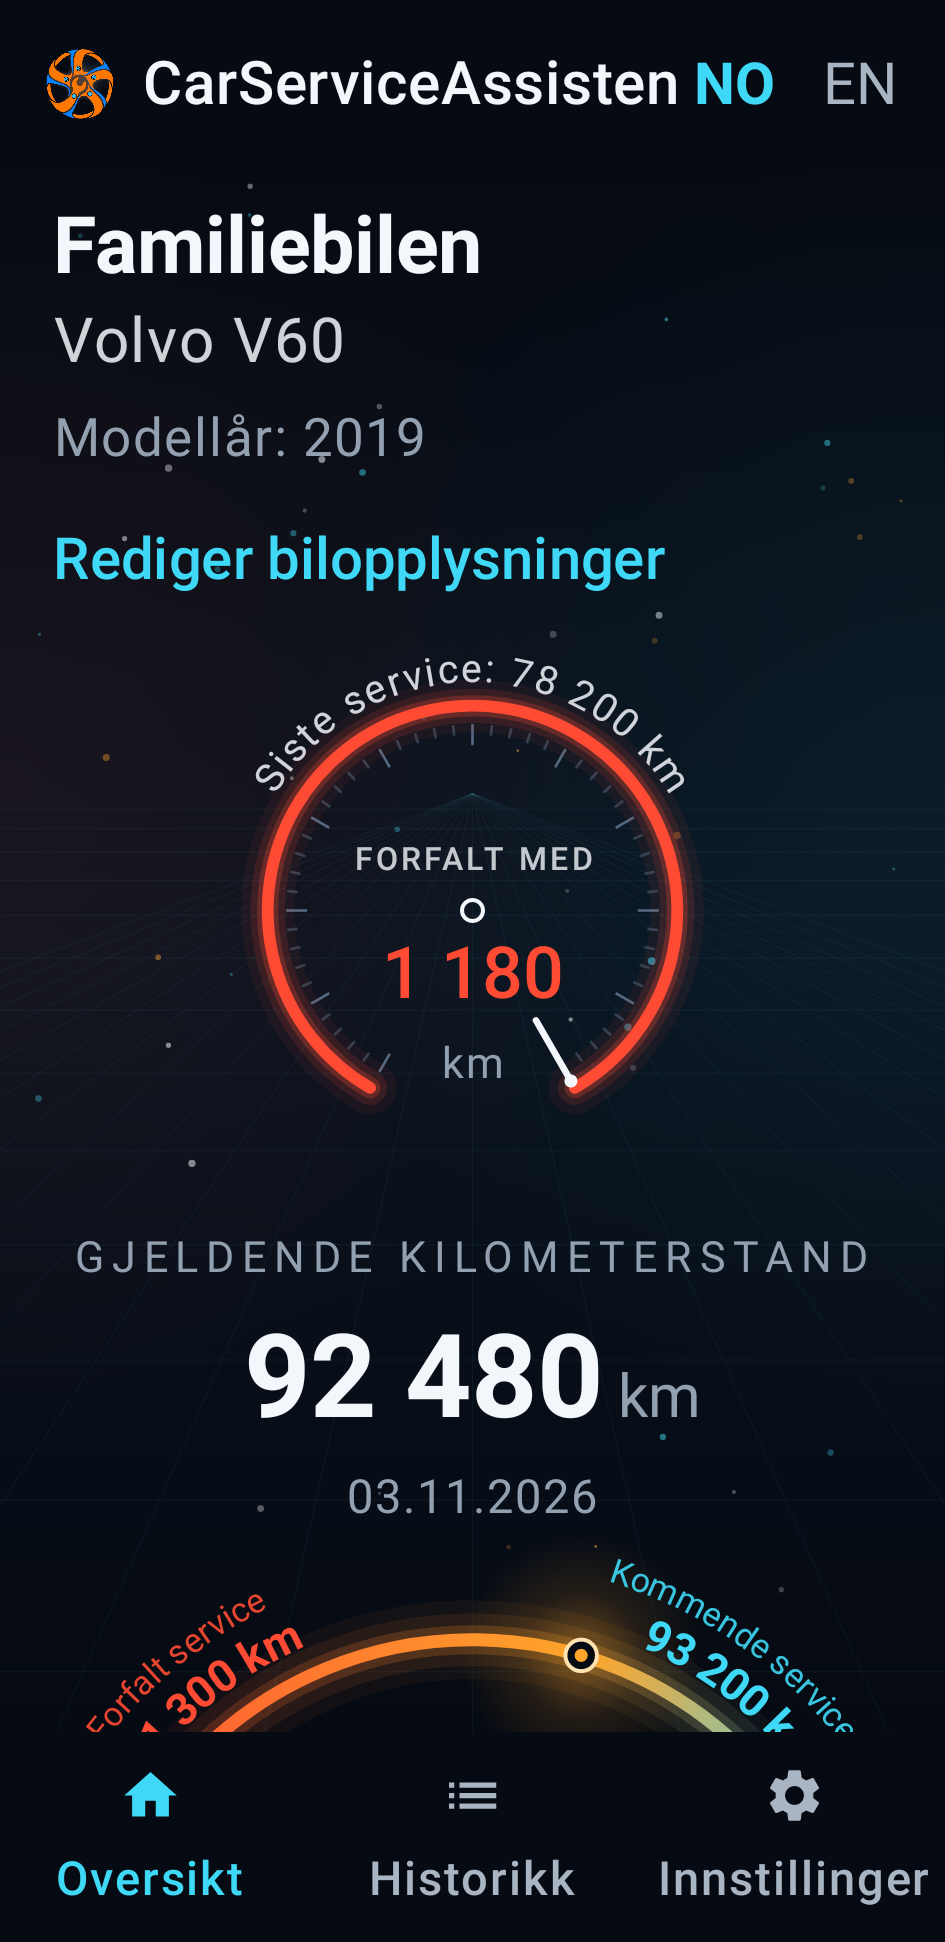
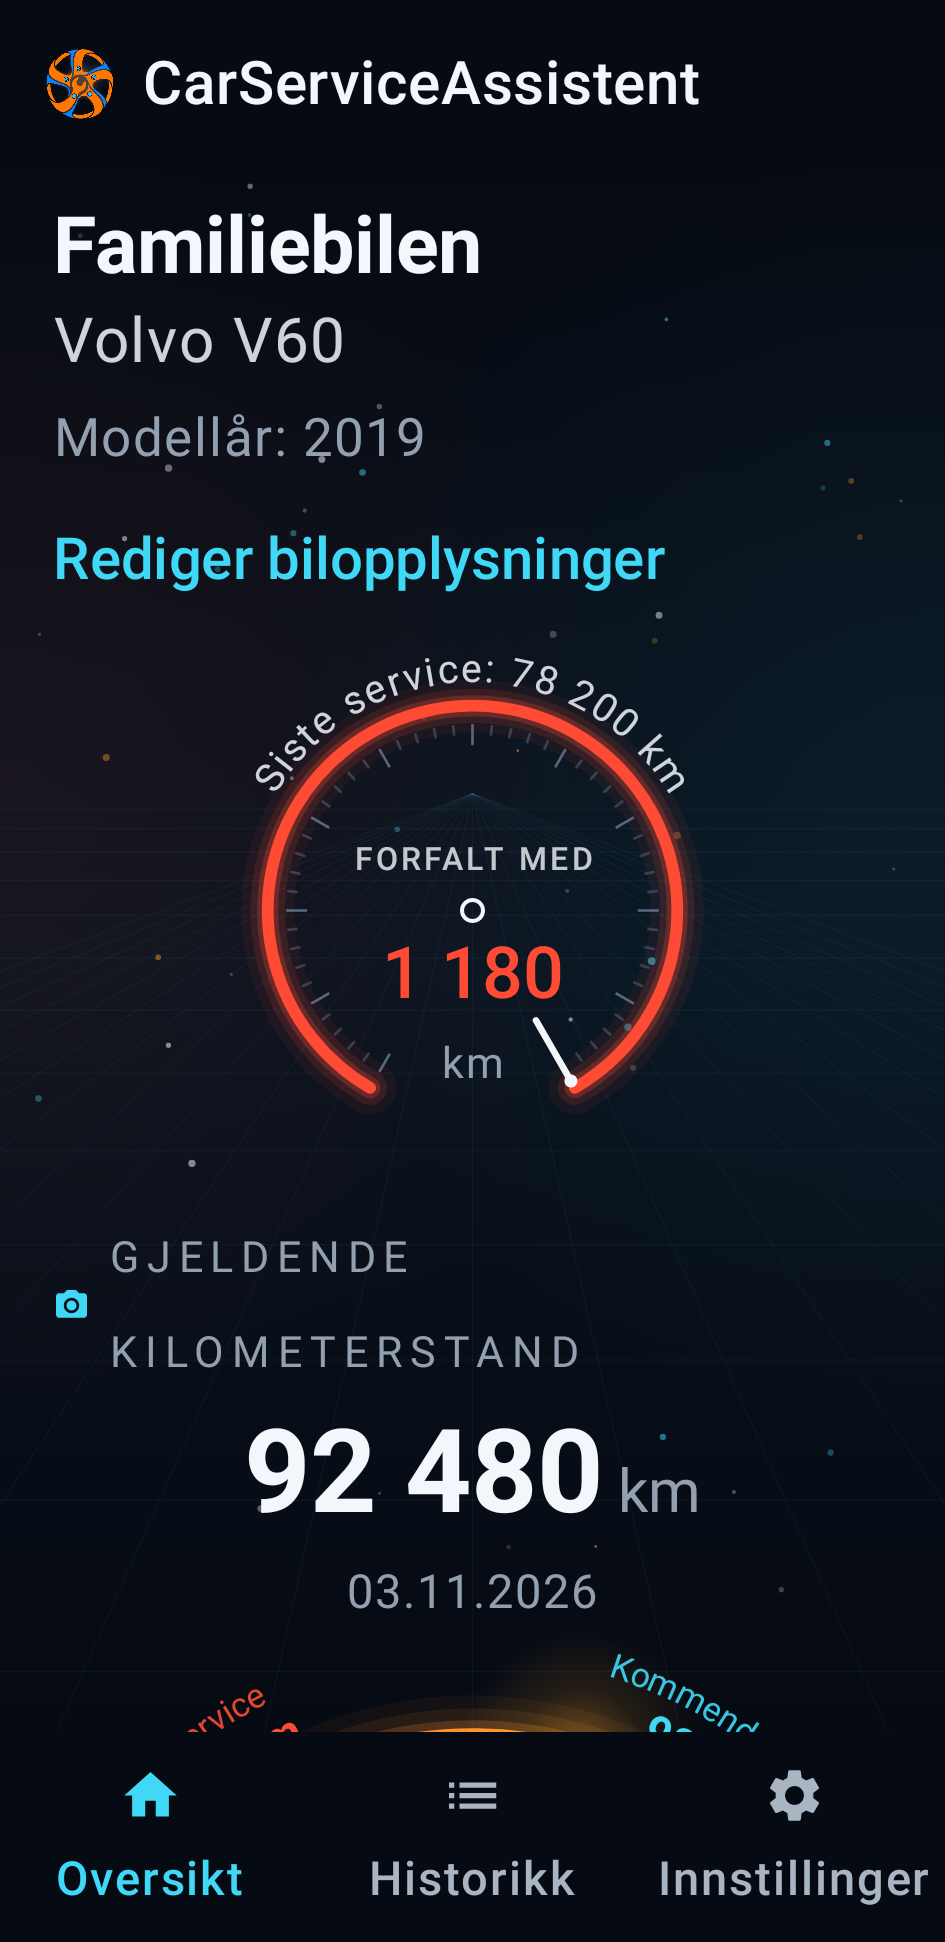
feat: the camera is one tap from the first screen
Nothing on the first screen led to the camera; the button was only inside the mileage form. Now:
- the top right corner of the main screens has a camera symbol instead of the NO / EN switch;
- the mileage on the first screen (its label, the number, its date, or the invitation to add a reading) opens the camera too, and carries a small camera mark;
- both open the mileage form straight into the camera, once; the number read from the photo waits there for the driver to save it. Leaving the camera without a photo lands on the form, where the number can be typed.

The language is chosen in the settings, as before the switch existed. A phone in neither Norwegian nor English still starts in Norwegian.

Version 0.12.1.

Claude-Session: https://claude.ai/code/session_01HjoZJ8yKa7bY5hk5TaW4g1

diff --git a/app/src/main/java/app/servicepassport/android/ui/CarServiceApp.kt b/app/src/main/java/app/servicepassport/android/ui/CarServiceApp.kt
@@ -86,7 +86,12 @@ fun CarServiceApp(repository: ProfileRepository, reminderStore: ReminderStore? =
                 }
             }, navigationIcon = {
                 if (route !in tabs) IconButton(onClick = { back() }, modifier = Modifier.testTag("back")) { Icon(Icons.AutoMirrored.Default.ArrowBack, contentDescription = stringResource(R.string.back)) }
-            }, actions = { if (route in tabs) LanguageSwitch() }) },
+            }, actions = {
+                // One tap from any main screen to a photo of the odometer. Without a car there is nothing to add it to.
+                if (route in tabs && state.snapshot != null && documents != null && documentStore != null) IconButton(onClick = { go("reading/photo") }, modifier = Modifier.testTag("scan_odometer")) {
+                    Icon(painterResource(R.drawable.ic_camera), contentDescription = stringResource(R.string.odometer_photo), tint = MaterialTheme.colorScheme.primary)
+                }
+            }) },
             bottomBar = { NavigationBar(containerColor = MaterialTheme.colorScheme.background) {
                 listOf(Triple("overview", R.string.overview, Icons.Default.Home), Triple("history", R.string.history, Icons.AutoMirrored.Default.List), Triple("settings", R.string.settings, Icons.Default.Settings)).forEach { (target, label, icon) ->
                     NavigationBarItem(modifier = Modifier.testTag("nav_$target"), selected = route == target, icon = { Icon(icon, contentDescription = null) }, label = { Text(stringResource(label)) }, onClick = { go(target) },
@@ -123,6 +128,8 @@ fun CarServiceApp(repository: ProfileRepository, reminderStore: ReminderStore? =
                 composable("service/{id}") { node -> ServiceDetails(state, node.arguments?.getString("id").orEmpty(), ::go, documentStore, { id -> model.removeDocument(id) {} }) { id, revision -> model.deleteService(id, revision) { saved("history") } } }
                 composable("readings") { Readings(state, ::go, model::selectReading) { id, revision -> model.deleteReading(id, revision) {} } }
                 composable("reading/new") { ReadingEditor(state, null, model.today, { dirty = it }, documents, documentStore) { input -> model.saveReading(input) { saved("overview") } } }
+                // The same form, opened straight into the camera.
+                composable("reading/photo") { ReadingEditor(state, null, model.today, { dirty = it }, documents, documentStore, startWithPhoto = true) { input -> model.saveReading(input) { saved("overview") } } }
                 composable("reading/{id}") { node ->
                     val reading = state.snapshot?.readings?.firstOrNull { it.id == node.arguments?.getString("id") && it.eventId == null }
                     if (reading == null) Page { Text(stringResource(R.string.entry_not_found)) } else ReadingEditor(state, reading, model.today, { dirty = it }) { input -> model.saveReading(input) { saved("readings") } }
@@ -134,22 +141,6 @@ fun CarServiceApp(repository: ProfileRepository, reminderStore: ReminderStore? =
             pendingRoute = null; pendingBack = false; dirty = false
             if (wasBack) nav.popBackStack() else if (destination != null) navigate(destination)
         }, modifier = Modifier.testTag("confirm_discard")) { Text(stringResource(R.string.discard_changes)) } }, dismissButton = { TextButton(onClick = { pendingRoute = null; pendingBack = false }) { Text(stringResource(R.string.keep_editing)) } })
-    }
-}
-
-/** NO / EN at the top of the main screens: the language is one tap away, wherever the phone's own language points. */
-@Composable private fun LanguageSwitch() {
-    val norwegian = LocalConfiguration.current.locales[0].language in setOf("nb", "no"); val context = LocalContext.current
-    Row(Modifier.padding(end = 4.dp), verticalAlignment = Alignment.CenterVertically) {
-        listOf(Triple("NO", "nb-NO", norwegian), Triple("EN", "en", !norwegian)).forEach { (label, tag, chosen) ->
-            val name = stringResource(if (tag == "en") R.string.language_english else R.string.language_norwegian)
-            TextButton(
-                onClick = { if (!chosen) AppLanguage.choose(context, tag) }, contentPadding = PaddingValues(horizontal = 6.dp),
-                modifier = Modifier.widthIn(min = 44.dp).testTag("switch_language_${tag.take(2)}").semantics { contentDescription = name; selected = chosen },
-            ) {
-                Text(label, color = if (chosen) MaterialTheme.colorScheme.primary else MaterialTheme.colorScheme.onSurfaceVariant, fontWeight = if (chosen) FontWeight.Bold else FontWeight.Normal)
-            }
-        }
     }
 }
 

diff --git a/app/src/main/java/app/servicepassport/android/ui/HistoryEditors.kt b/app/src/main/java/app/servicepassport/android/ui/HistoryEditors.kt
@@ -109,7 +109,7 @@ private fun decodeWork(raw: String): List<WorkInput> {
     }, modifier = Modifier.fillMaxWidth().testTag("save_service")) { Text(stringResource(if (state.saving) R.string.saving else R.string.save_service)) }
 }
 
-@Composable internal fun ReadingEditor(state: GarageState, reading: OdometerReadingEntity?, today: LocalDate, onDirty: (Boolean) -> Unit, reader: DocumentAnalyzer? = null, store: DocumentStore? = null, save: (ReadingInput) -> Unit) = Page {
+@Composable internal fun ReadingEditor(state: GarageState, reading: OdometerReadingEntity?, today: LocalDate, onDirty: (Boolean) -> Unit, reader: DocumentAnalyzer? = null, store: DocumentStore? = null, startWithPhoto: Boolean = false, save: (ReadingInput) -> Unit) = Page {
     val snapshot = state.snapshot ?: return@Page; val locale = uiLocale()
     val id = rememberSaveable { reading?.id ?: UUID.randomUUID().toString() }
     val expectedRevision = rememberSaveable { reading?.revision ?: -1L }.takeIf { it >= 0 }
@@ -137,7 +137,7 @@ private fun decodeWork(raw: String): List<WorkInput> {
     Text(snapshot.vehicle.displayName)
     DateField(stringResource(R.string.reading_date), date, "reading_date", today) { date = it; reviewedToken = null; if (reading != null) current = false; issue = null }
     OutlinedTextField(value = km, onValueChange = { km = it; reviewedToken = null; if (reading != null) current = false; issue = null }, singleLine = true, label = { Text(stringResource(R.string.odometer_km)) }, keyboardOptions = KeyboardOptions(keyboardType = KeyboardType.Number), modifier = Modifier.fillMaxWidth().testTag("reading_km"))
-    if (reading == null && reader != null && store != null) OdometerFromPhoto(reader, store, snapshot.currentReading?.km?.toInt(), locale) { km = it.toString(); reviewedToken = null; issue = null }
+    if (reading == null && reader != null && store != null) OdometerFromPhoto(reader, store, snapshot.currentReading?.km?.toInt(), locale, startWithPhoto) { km = it.toString(); reviewedToken = null; issue = null }
     Row { Checkbox(checked = current, onCheckedChange = { current = it; reviewedToken = null }, modifier = Modifier.testTag("use_current")); Text(stringResource(R.string.use_as_current), Modifier.padding(top = 12.dp)) }
     Text(stringResource(R.string.selection_help), style = MaterialTheme.typography.bodySmall)
     if (reading?.id == snapshot.currentReading?.id && reading != null) NoteCard(stringResource(R.string.selection_cleared_help))
@@ -200,7 +200,7 @@ private fun decodeWork(raw: String): List<WorkInput> {
  * A photo of the instrument cluster instead of typing: the number read from it is put into the mileage field, where
  * the driver sees it and saves it like a typed one. Nothing is saved from the photo alone, and the photo is not kept.
  */
-@Composable private fun OdometerFromPhoto(reader: DocumentAnalyzer, store: DocumentStore, lastKnownKm: Int?, locale: String, onRead: (Int) -> Unit) {
+@Composable private fun OdometerFromPhoto(reader: DocumentAnalyzer, store: DocumentStore, lastKnownKm: Int?, locale: String, openCameraAtOnce: Boolean, onRead: (Int) -> Unit) {
     val scope = rememberCoroutineScope()
     var busy by remember { mutableStateOf(false) }
     var noCamera by remember { mutableStateOf(false) }
@@ -219,10 +219,12 @@ private fun decodeWork(raw: String): List<WorkInput> {
             }
         }
     }
-    QuietButton(enabled = !busy, modifier = Modifier.fillMaxWidth().testTag("odometer_photo"), onClick = {
-        noCamera = false
-        try { camera.launch(store.odometerPhotoTarget()) } catch (_: Exception) { noCamera = true }
-    }) { Text(stringResource(R.string.odometer_photo)) }
+    fun openCamera() { noCamera = false; try { camera.launch(store.odometerPhotoTarget()) } catch (_: Exception) { noCamera = true } }
+    // Coming from the camera symbol or the mileage on the first screen: the camera opens by itself, once. Rebuilding
+    // the screen (the phone is turned, the app comes back) must not open it again.
+    var openedAtOnce by rememberSaveable { mutableStateOf(false) }
+    LaunchedEffect(Unit) { if (openCameraAtOnce && !openedAtOnce) { openedAtOnce = true; openCamera() } }
+    QuietButton(enabled = !busy, modifier = Modifier.fillMaxWidth().testTag("odometer_photo"), onClick = { openCamera() }) { Text(stringResource(R.string.odometer_photo)) }
     if (noCamera) Text(stringResource(R.string.import_no_camera), color = MaterialTheme.colorScheme.error)
     if (busy) { CircularProgressIndicator(); Text(stringResource(R.string.odometer_photo_reading)) }
     offered?.let { found ->

diff --git a/app/src/main/java/app/servicepassport/android/ui/CockpitOverview.kt b/app/src/main/java/app/servicepassport/android/ui/CockpitOverview.kt
@@ -33,6 +33,7 @@ import androidx.compose.ui.graphics.nativeCanvas
 import androidx.compose.ui.graphics.toArgb
 import androidx.compose.ui.platform.LocalDensity
 import androidx.compose.ui.platform.testTag
+import androidx.compose.ui.res.painterResource
 import androidx.compose.ui.res.pluralStringResource
 import androidx.compose.ui.res.stringResource
 import androidx.compose.ui.semantics.Role
@@ -184,17 +185,24 @@ private var introPlayed = false
             }
 
             Column(Modifier.fillMaxWidth(), horizontalAlignment = Alignment.CenterHorizontally, verticalArrangement = Arrangement.spacedBy(2.dp)) {
-                Text(stringResource(R.string.current_odometer).uppercase(), color = Cockpit.muted, fontSize = 11.sp, letterSpacing = 2.sp)
+                // Every line about the mileage opens the camera for a photo of the odometer. Each line stays its own
+                // element, so it can still be read and found on its own.
+                val photo = stringResource(R.string.odometer_photo)
+                val toCamera = Modifier.clip(MaterialTheme.shapes.extraSmall).clickable(onClickLabel = photo, role = Role.Button) { go("reading/photo") }
+                Row(toCamera.testTag("odometer_label"), verticalAlignment = Alignment.CenterVertically, horizontalArrangement = Arrangement.spacedBy(6.dp)) {
+                    Icon(painterResource(R.drawable.ic_camera), contentDescription = null, tint = Cockpit.cyan, modifier = Modifier.size(14.dp))
+                    Text(stringResource(R.string.current_odometer).uppercase(), color = Cockpit.muted, fontSize = 11.sp, letterSpacing = 2.sp)
+                }
                 val reading = snapshot.currentReading
-                if (reading == null) Text(stringResource(R.string.odometer_missing), color = Cockpit.text, style = MaterialTheme.typography.titleMedium, modifier = Modifier.testTag("no_current_reading")) else {
+                if (reading == null) Text(stringResource(R.string.odometer_missing), color = Cockpit.cyan, style = MaterialTheme.typography.titleMedium, modifier = toCamera.testTag("no_current_reading").padding(vertical = 10.dp, horizontal = 8.dp)) else {
                     BasicText(
                         buildAnnotatedString {
                             append(formattedKm(reading.km, locale))
                             withStyle(SpanStyle(fontSize = 16.sp, fontWeight = FontWeight.Normal, color = Cockpit.muted)) { append(" km") }
                         },
-                        Modifier.testTag("current_km"), TextStyle(color = Cockpit.text, fontSize = 44.sp, fontWeight = FontWeight.Bold), maxLines = 1, softWrap = false,
+                        toCamera.testTag("current_km"), TextStyle(color = Cockpit.text, fontSize = 44.sp, fontWeight = FontWeight.Bold), maxLines = 1, softWrap = false,
                     )
-                    Text(LocalDates.text(reading.observedDay, locale), color = Cockpit.muted, fontSize = 12.sp, modifier = Modifier.testTag("current_reading_date"))
+                    Text(LocalDates.text(reading.observedDay, locale), color = Cockpit.muted, fontSize = 12.sp, modifier = toCamera.testTag("current_reading_date"))
                 }
             }
 

diff --git a/app/src/test/java/app/servicepassport/android/screens/OdometerPhotoFlowTest.kt b/app/src/test/java/app/servicepassport/android/screens/OdometerPhotoFlowTest.kt
@@ -59,7 +59,10 @@ class OdometerPhotoFlowTest {
     }
     @After fun cleanup() { store.deleteAll(); db.close(); context.deleteDatabase(name) }
 
-    private fun start(seen: List<String>, photoTaken: Boolean = true) {
+    private fun start(seen: List<String>, photoTaken: Boolean = true) { open(seen, photoTaken); compose.click("add_reading"); compose.await("odometer_photo") }
+
+    /** The app on its first screen, with a camera that "takes" a photo showing [seen]. */
+    private fun open(seen: List<String>, photoTaken: Boolean = true) {
         val camera = Answering { contract, input ->
             if (contract !is ActivityResultContracts.TakePicture) null
             else if (!photoTaken) false
@@ -67,7 +70,6 @@ class OdometerPhotoFlowTest {
         }
         compose.setAppContent(camera) { CarServiceApp(repository, documents = DocumentAnalyzer(context, Shows(seen)), documentStore = store) }
         compose.await("profile_name")
-        compose.click("add_reading"); compose.await("odometer_photo")
     }
     private fun currentKm() = runBlocking { requireNotNull(db.vehicles().garage(requireNotNull(db.vehicles().getProfile()).id)).currentReading?.km }
     private fun photoFile() = File(context.filesDir, "${DocumentStore.STAGED}/odometer.jpg")
@@ -81,6 +83,35 @@ class OdometerPhotoFlowTest {
         compose.click("save_reading"); compose.await("profile_name")
         compose.awaitText("current_km", "93,231 km")
         assertEquals(93_231L, currentKm())
+    }
+
+    @Test fun theCameraSymbolAtTheTopGoesStraightToThePhotoAndTheNumber() {
+        open(cluster)
+        compose.tap("scan_odometer"); compose.await("odometer_photo_result")
+        compose.onNodeWithTag("reading_km").assertTextContains("93231")
+        assertEquals("the number still waits for the driver", 92_480L, currentKm())
+        compose.click("save_reading"); compose.await("profile_name")
+        compose.awaitText("current_km", "93,231 km")
+    }
+
+    @Test fun theMileageOnTheFirstScreenIsAWayToTheCameraToo() {
+        open(cluster)
+        compose.onNodeWithTag("current_km").assertHasClickAction()
+        compose.onNodeWithTag("odometer_label").assertHasClickAction()
+        compose.click("current_km"); compose.await("odometer_photo_result")
+        compose.onNodeWithTag("reading_km").assertTextContains("93231")
+    }
+
+    @Test fun theCameraSymbolIsOnEveryMainScreenAndNotInsideForms() {
+        open(cluster, photoTaken = false)
+        compose.onNodeWithTag("scan_odometer").assertExists()
+        compose.tap("nav_history"); compose.await("add_service"); compose.onNodeWithTag("scan_odometer").assertExists()
+        compose.tap("nav_settings"); compose.await("language_nb"); compose.onNodeWithTag("scan_odometer").assertExists()
+        // Leaving the camera without a photo lands on the form, where the number can be typed.
+        compose.tap("scan_odometer"); compose.await("reading_km")
+        compose.onAllNodesWithTag("odometer_photo_result").assertCountEquals(0)
+        compose.onAllNodesWithTag("scan_odometer").assertCountEquals(0)
+        assertEquals(92_480L, currentKm())
     }
 
     @Test fun anotherNumberFromTheSamePhotoIsOneTapAway() {

diff --git a/app/src/test/java/app/servicepassport/android/screens/SettingsAndFormsFlowTest.kt b/app/src/test/java/app/servicepassport/android/screens/SettingsAndFormsFlowTest.kt
@@ -177,18 +177,16 @@ class SettingsAndFormsFlowTest {
         compose.onAllNodesWithTag("confirmed_work").assertCountEquals(1)
     }
 
-    @Test fun theLanguageSwitchAtTheTopIsOneTapOnTheMainScreensOnly() {
+    @Test fun theLanguageIsChangedInTheSettings() {
         start()
         compose.await("profile_name")
-        compose.onNodeWithTag("switch_language_en").assertIsSelected()
-        compose.tap("switch_language_nb")
+        compose.onAllNodesWithTag("switch_language_nb").assertCountEquals(0)
+        compose.tap("nav_settings"); compose.await("language_nb")
+        compose.click("language_nb")
         try {
             assertEquals("nb-NO", androidx.appcompat.app.AppCompatDelegate.getApplicationLocales().toLanguageTags())
             assertEquals("the choice is remembered for notifications too", "Oversikt", app.servicepassport.android.AppLanguage.localized(context).getString(R.string.overview))
         } finally { androidx.appcompat.app.AppCompatDelegate.setApplicationLocales(androidx.core.os.LocaleListCompat.getEmptyLocaleList()) }
-        // A form is not the place to change the language of what is being typed.
-        compose.click("add_service"); compose.await("save_service")
-        compose.onAllNodesWithTag("switch_language_nb").assertCountEquals(0)
     }
 
     @Test fun aCarWithNothingToCalculateFromIsPointedToBothWaysOfGettingAResult() {

diff --git a/app/src/test/java/app/servicepassport/android/screens/ScreenshotTest.kt b/app/src/test/java/app/servicepassport/android/screens/ScreenshotTest.kt
@@ -78,6 +78,7 @@ class ScreenshotTest {
         compose.setContent { CarServiceApp(repository, reminders, dataFiles = files, documents = reader, documentStore = store) }
         compose.waitUntil(10_000) { compose.onAllNodesWithTag("profile_name").fetchSemanticsNodes().isNotEmpty() }
         fun back() = tab("back")
+        shot("all-overview")
         open("open_dashboard")
         compose.onAllNodes(hasText("Cabin filter · Replacement") and hasClickAction()).onFirst().performScrollTo().performClick(); compose.waitForIdle()
         shot("all-forecast"); back()

diff --git a/docs/12-etap-8-beta.md b/docs/12-etap-8-beta.md
@@ -18,7 +18,7 @@ Etap 8 **nie jest ukończony**: bez testu na telefonie nie można uznać aplikac
 
 | Zestaw | Liczba testów | Gdzie działa |
 | --- | --- | --- |
-| Aplikacja — testy jednostkowe (baza, historia, pulpit, przypomnienia, kopia, dokumenty, katalog, prywatność) oraz testy przepływów przez prawdziwe ekrany z atrapą okien systemowych | 197 | JVM (Robolectric) |
+| Aplikacja — testy jednostkowe (baza, historia, pulpit, przypomnienia, kopia, dokumenty, katalog, prywatność) oraz testy przepływów przez prawdziwe ekrany z atrapą okien systemowych | 200 | JVM (Robolectric) |
 | Aplikacja — testy na emulatorze (start, migracje bazy, pliki dokumentów, prawdziwy ML Kit na pliku PDF, na zdjęciu zapisanym bokiem i na narysowanym zestawie wskaźników, brak sieci, kopia z hasłem przez ekran ustawień) | 12 | Emulator w CI, API 26 i nowsze |
 | Silnik (obliczenia, ekstrakcja, przypomnienia, eksport, szyfrowanie, VIN) | 113 | JVM |
 | Wspólny kontrakt | 3 | JVM |
@@ -58,7 +58,7 @@ Instalacja: plik `app-debug.apk` z artefaktów CI. Wszystkie dane testowe wymyś
 2. **Auto** — podpowiedzi marki i modelu pojawiają się podczas pisania; błędny VIN daje komunikat; zapis działa.
 3. **Przebieg i wpis serwisowy** — dodanie odczytu, dodanie wpisu ręcznie, edycja, usunięcie.
 4. **Własny interwał i pulpit** — po dodaniu interwału pulpit pokazuje termin; bez interwału pokazuje brak potwierdzonego harmonogramu.
-4a. **Zdjęcie licznika** — w formularzu przebiegu „Zrób zdjęcie licznika”: po zdjęciu zegarów liczba pojawia się w polu; sprawdzić na własnym aucie przy świetle dziennym i w nocy, z bliska i z miejsca kierowcy; błędny odczyt da się poprawić ręcznie albo wybrać inną liczbę z tego samego zdjęcia.
+4a. **Zdjęcie licznika** — ikona aparatu w prawym górnym rogu albo dotknięcie przebiegu na ekranie głównym otwiera aparat (także przycisk w formularzu przebiegu): po zdjęciu zegarów liczba pojawia się w polu; sprawdzić na własnym aucie przy świetle dziennym i w nocy, z bliska i z miejsca kierowcy; błędny odczyt da się poprawić ręcznie albo wybrać inną liczbę z tego samego zdjęcia.
 5. **Wskaźnik serwisowy** — wpisanie odczytu z wyświetlacza auta zmienia pulpit.
 6. **Dokument z pliku** — wybór zdjęcia i PDF; ekran sprawdzenia pokazuje datę, przebieg i pozycje ze źródłem; zapis wpisu.
 7. **Zdjęcie aparatem** — przycisk otwiera aparat; po zrobieniu zdjęcia pojawia się ekran sprawdzenia. Sprawdzić też z telefonem obróconym poziomo podczas robienia zdjęcia oraz obrót telefonu na ekranie sprawdzenia i w formularzu wpisu — dokument nie może zniknąć.
